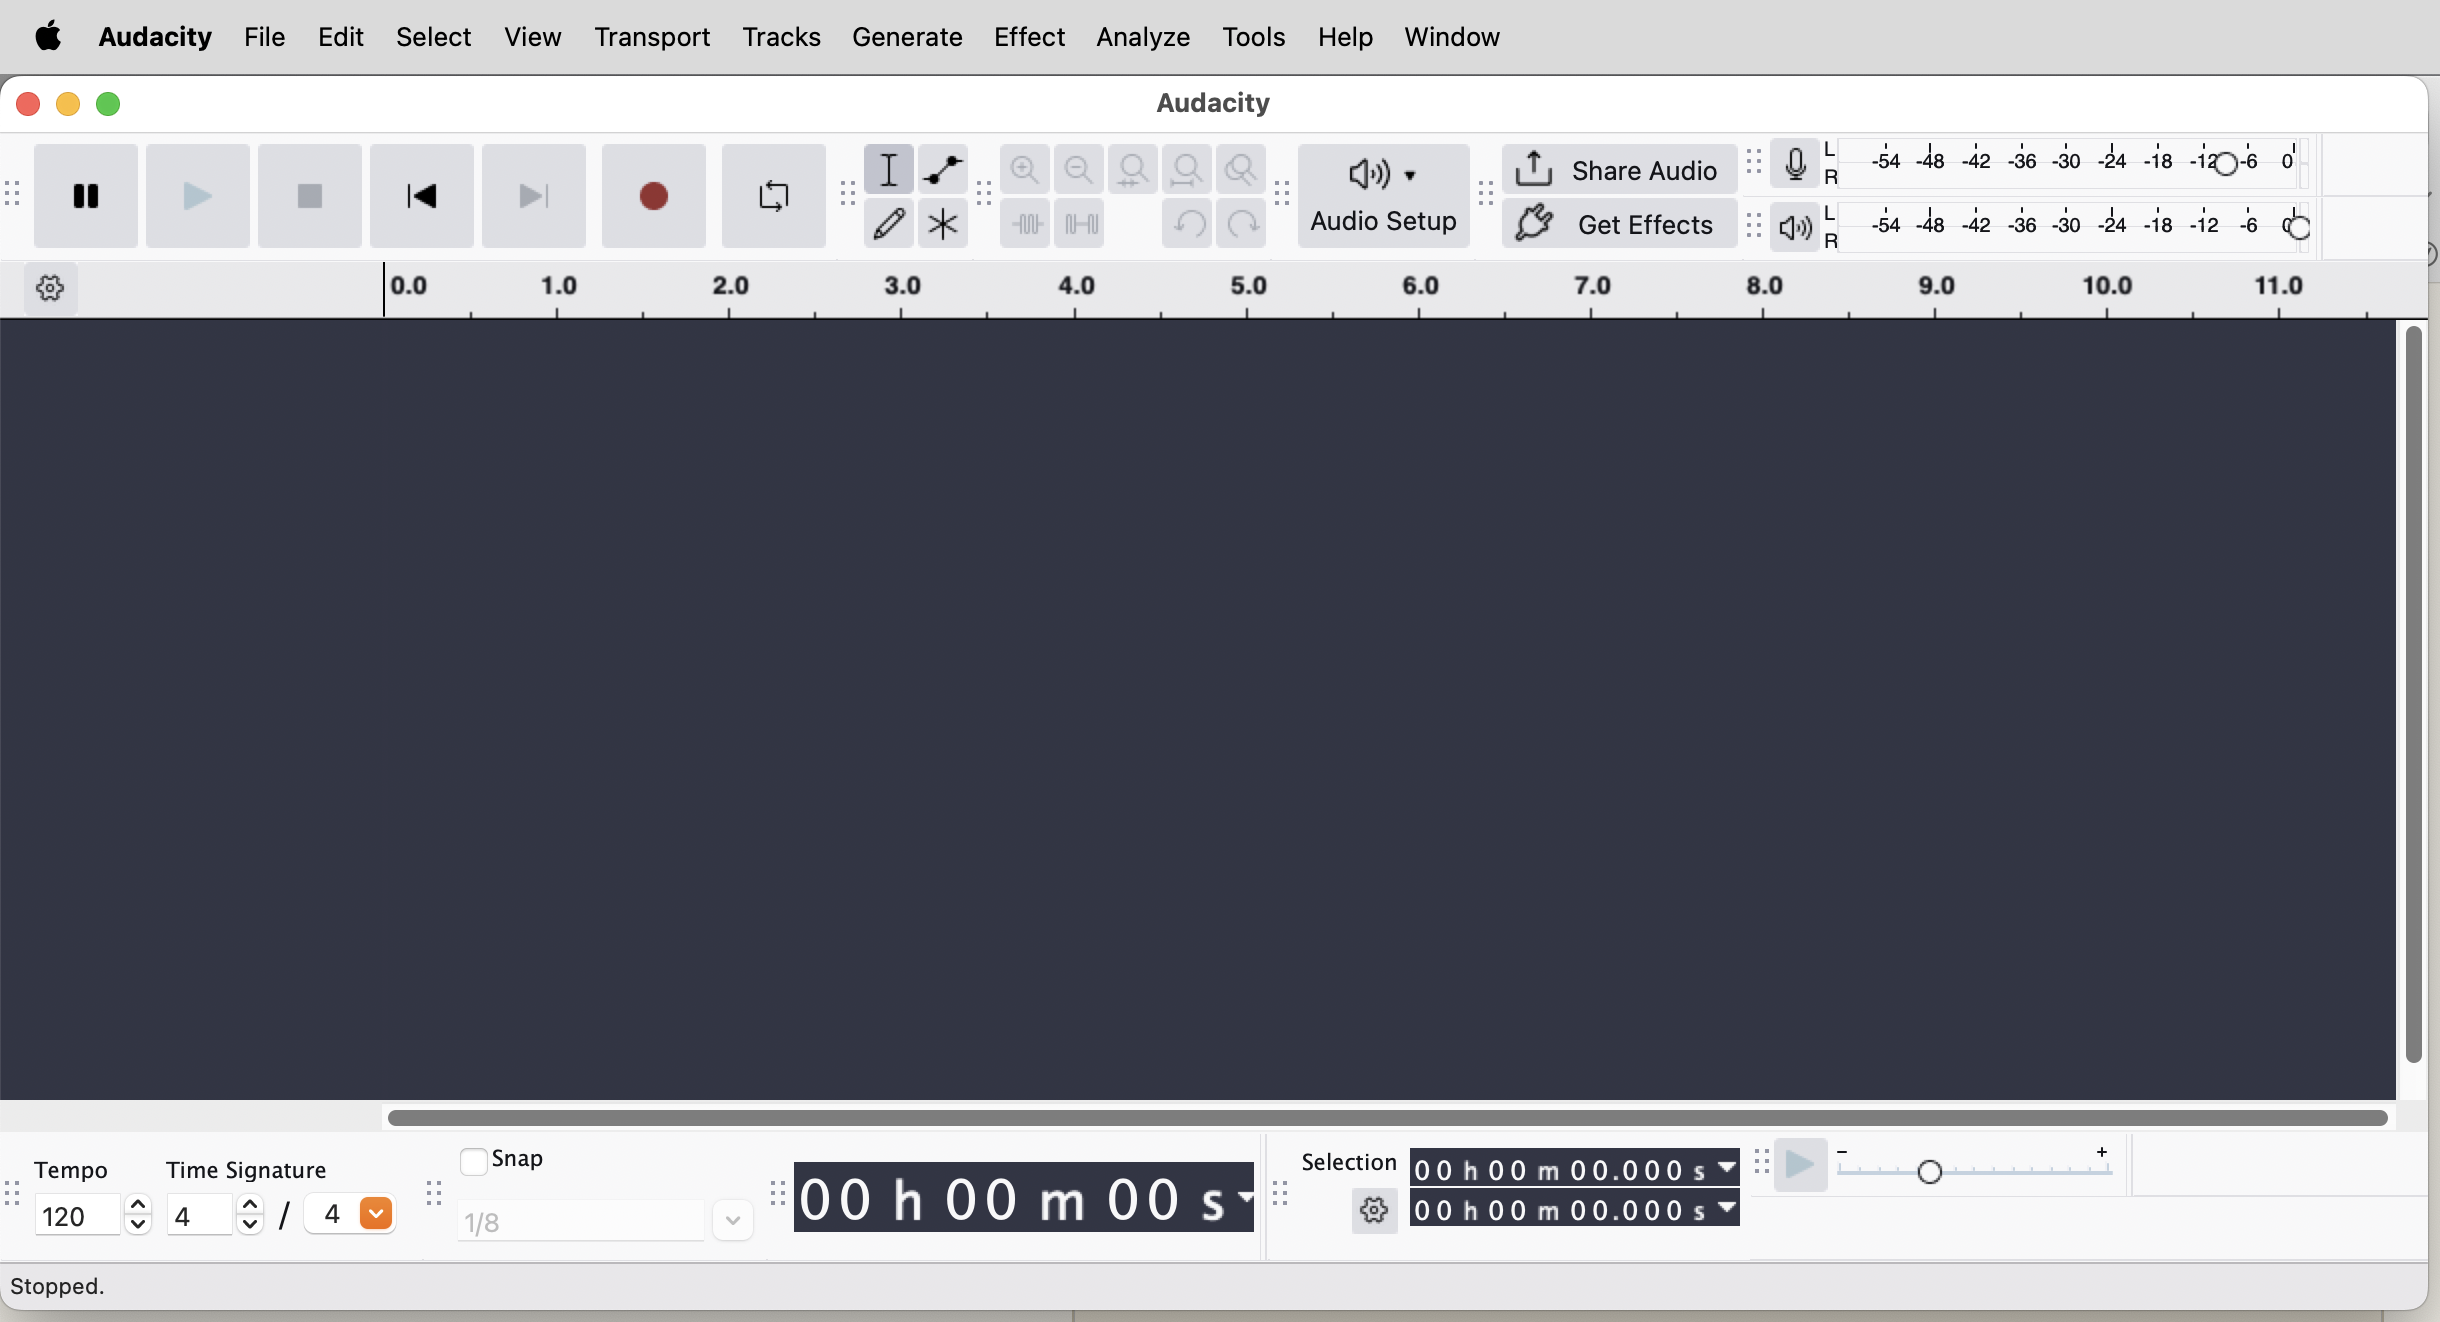
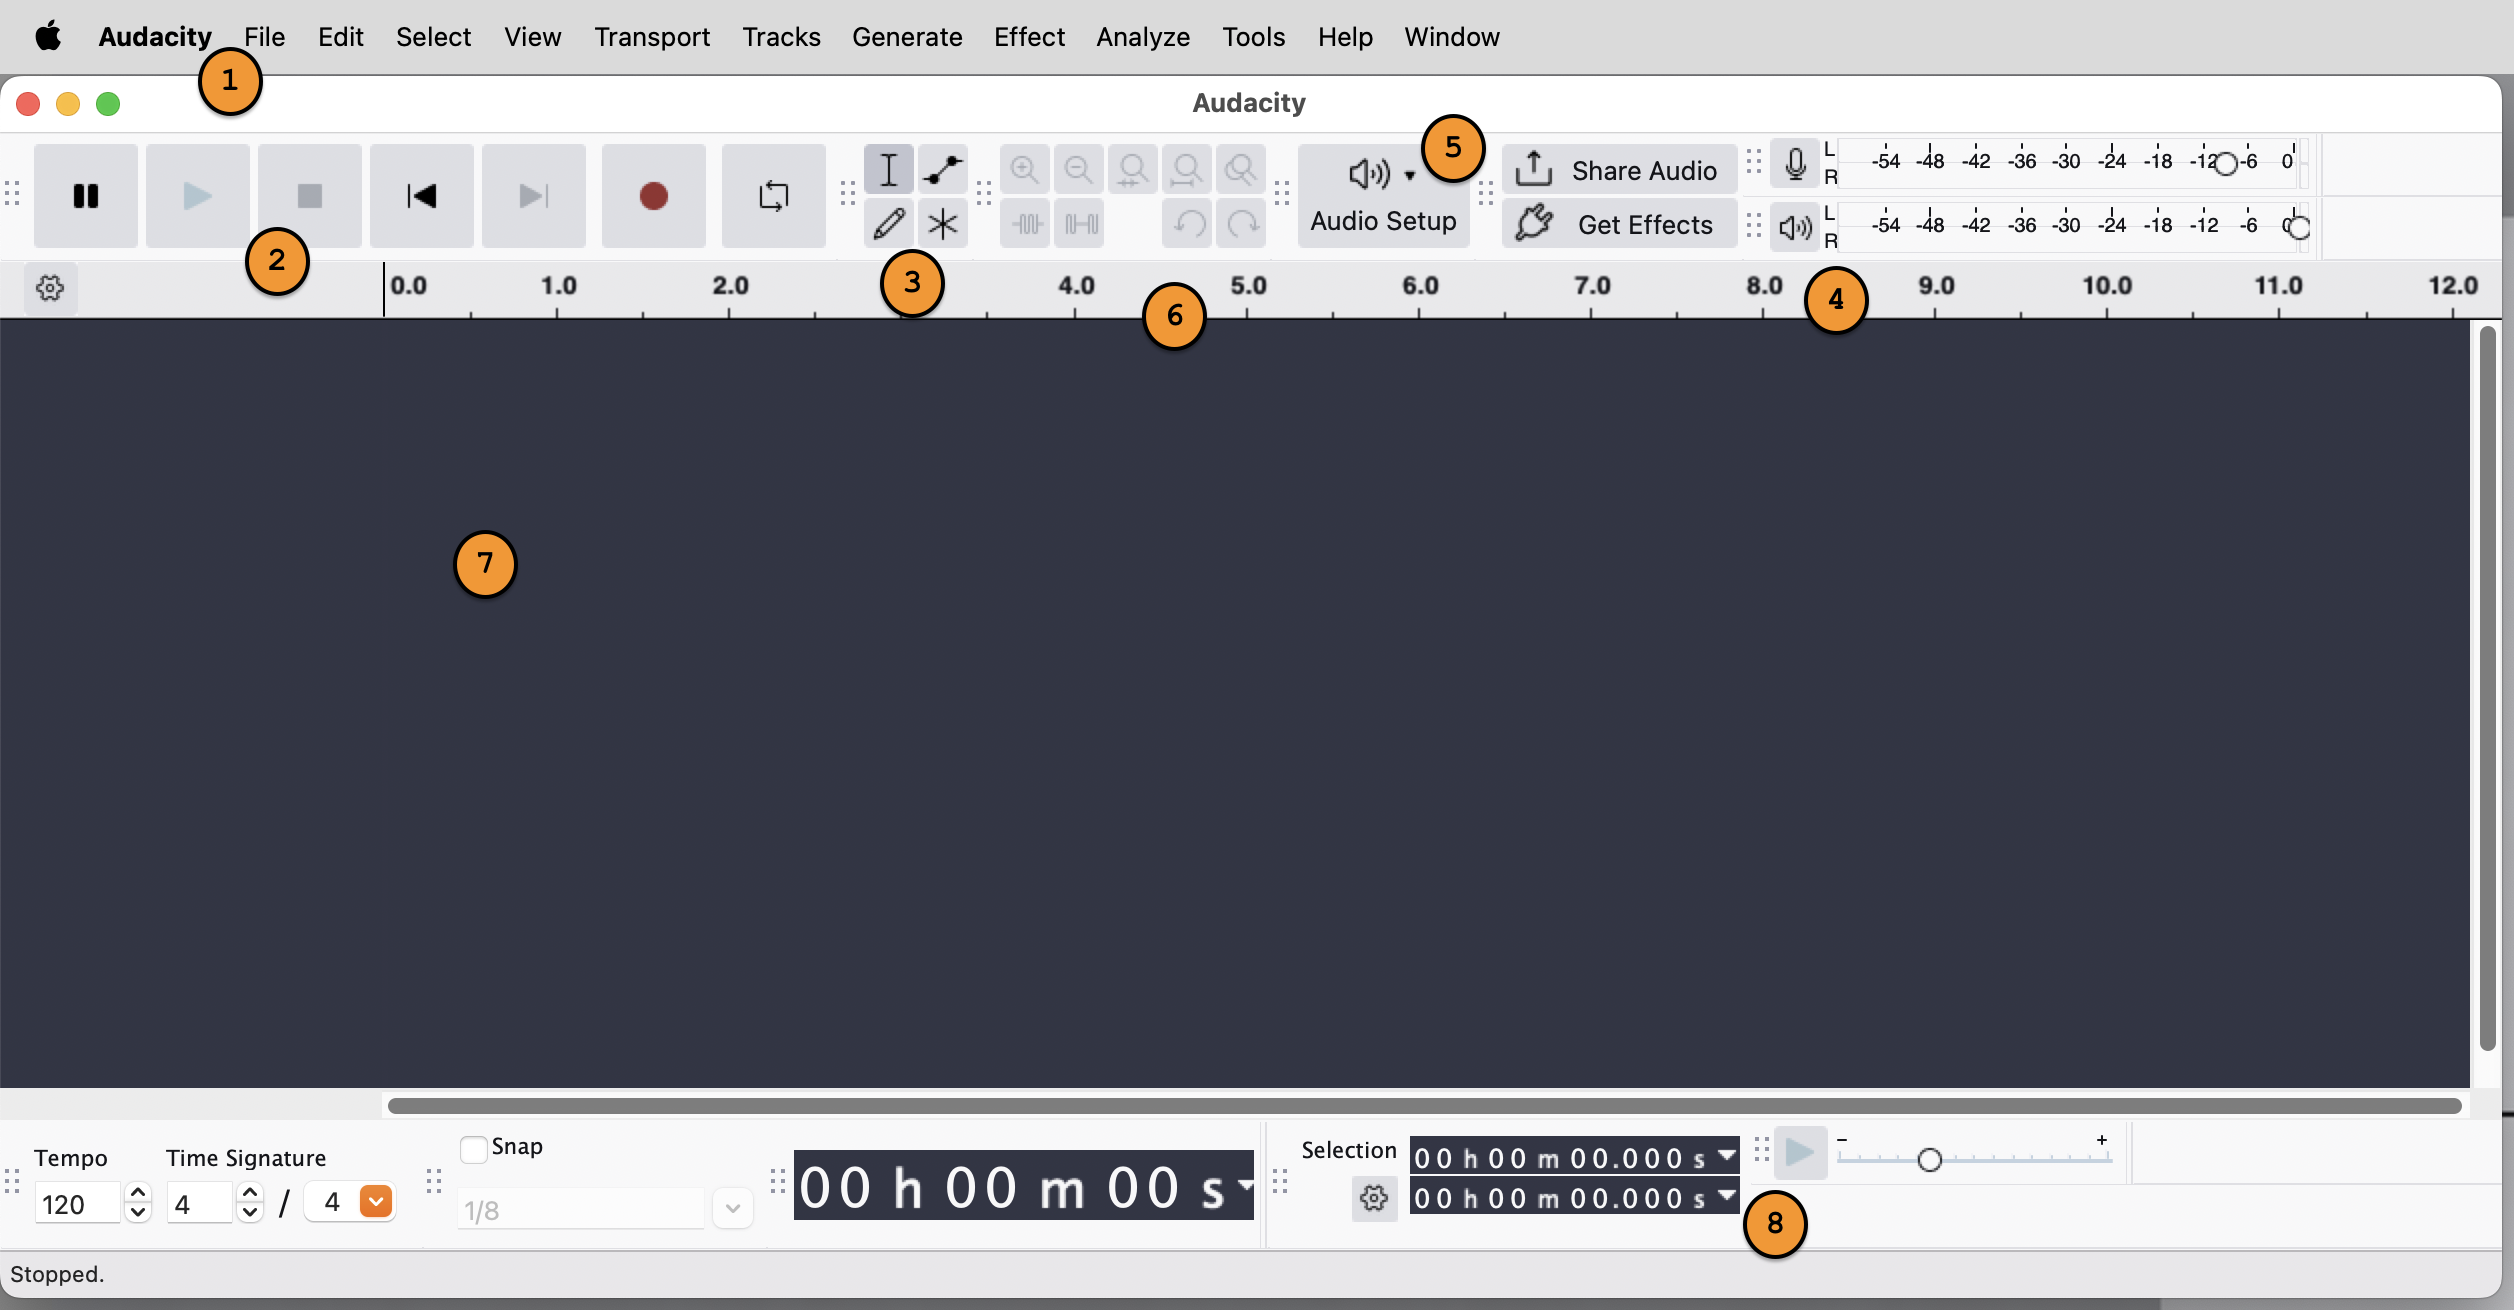
Audacity orientation: switch to annotated screenshot, remove SVG overlay
Inés produced an annotated version of the screenshot directly (orange
numbered markers placed on the regions they identify, no leader lines).
This replaces the SVG-overlay approach we'd been iterating on:

- assets/images/module-02-week-02/audacity-interface-empty.png:
  new file, 2514x1310, with 1-8 markers baked into the PNG.
- 03-handout-audacity-orientation.html:
  - Removed the SVG overlay (markers + leader lines + defs/marker
    arrowhead) and the .annotated wrapper div.
  - Removed the .annotated and svg.overlay CSS rules.
  - Restored the simpler <figure class='screenshot'><img>...
  - Updated img alt text to describe the on-image markers.
  - Annotation key kept as before (1-8, matching the markers).
- module-02-audio-editing-mixing/README.md:
  - Updated the screenshots table row to describe the baked-in
    markers.
  - Replaced the long 'Annotation overlay' subsection with a short
    note explaining that annotations are in the PNG itself and what
    to do if the screenshot is ever re-captured.
  - Kept the note about Audacity 3.6 no longer displaying the project
    sample rate (still useful context for marker 5's key text).

Net: -94 lines, cleaner end state. The annotation positions are now
locked to the PNG, which is a fine trade-off; if the screenshot ever
changes the annotations need to be redrawn rather than nudged in code,
but that's a rare event.

diff --git a/module-02-audio-editing-mixing/lessons/03-handout-audacity-orientation.html b/module-02-audio-editing-mixing/lessons/03-handout-audacity-orientation.html
@@ -11,14 +11,6 @@
     figure.screenshot {
       margin: 1.5rem 0 2rem;
     }
-    /* For annotated screenshots: the image and the SVG overlay both live inside
-       this wrapper, which establishes the positioning context. The SVG is sized
-       and positioned to lie exactly on top of the image, with pointer-events
-       disabled so right-click / save-image still works on the underlying picture. */
-    figure.screenshot .annotated {
-      position: relative;
-      line-height: 0; /* removes the descender gap below the inline img */
-    }
     figure.screenshot img {
       display: block;
       width: 100%;
@@ -26,14 +18,6 @@
       border: 1px solid var(--rule);
       border-radius: 3px;
       background: var(--bg-alt);
-    }
-    figure.screenshot .annotated svg.overlay {
-      position: absolute;
-      top: 0;
-      left: 0;
-      width: 100%;
-      height: 100%;
-      pointer-events: none;
     }
     figure.screenshot figcaption {
       font-family: var(--mono);
@@ -45,7 +29,7 @@
       text-align: left;
     }
     /* Annotation key sits below the screenshot, referencing the numbered
-       markers drawn over the image. */
+       markers drawn on the image. */
     figure.screenshot .annotation-key {
       font-family: var(--mono);
       font-size: 0.85rem;
@@ -142,72 +126,7 @@
 <p>Before you import anything, take a minute to learn the names of the things on screen. You don't need to memorize all of these, just be able to find them when the instruction says "click the play button" or "use the selection tool."</p>
 
 <figure class="screenshot">
-  <div class="annotated">
-    <img src="../../assets/images/module-02-week-02/audacity-interface-empty.png" alt="The empty Audacity main window. Numbered markers point to the menu bar, transport toolbar, tools toolbar, recording and playback level meters, Audio Setup dropdown, timeline ruler, empty track area, and selection toolbar." loading="lazy">
-    <svg class="overlay" viewBox="0 0 2440 1322" preserveAspectRatio="none" aria-hidden="true" xmlns="http://www.w3.org/2000/svg">
-      <!-- Marker style: filled rust circle (radius 32 in source coords) with
-           white DM Mono number centered inside. Each marker sits in the empty
-           track area or the title-bar margin, with a short leader line ending
-           in an arrowhead pointing to the region it identifies. Keeping the
-           leaders short and (mostly) vertical avoids covering UI elements
-           and avoids the diagonal-crossing clutter of a callout-margin layout. -->
-      <defs>
-        <marker id="leader-arrow" viewBox="0 0 12 12" refX="9" refY="6"
-                markerWidth="12" markerHeight="12" orient="auto">
-          <path d="M 0 0 L 12 6 L 0 12 Z" fill="var(--accent)"/>
-        </marker>
-      </defs>
-      <g stroke="var(--accent)" stroke-width="4" fill="none">
-        <!-- 1: Menu bar — leader points up to just below the menu strip, in the title bar area -->
-        <line x1="120" y1="346" x2="120" y2="55" marker-end="url(#leader-arrow)"/>
-        <!-- 2: Transport toolbar — leader tip lands above the toolbar buttons, in the title bar area -->
-        <line x1="330" y1="346" x2="330" y2="95" marker-end="url(#leader-arrow)"/>
-        <!-- 3: Tools toolbar — leader tip lands above the tools cluster, slightly left -->
-        <line x1="555" y1="346" x2="520" y2="95" marker-end="url(#leader-arrow)"/>
-        <!-- 5: Audio Setup — leader tip lands above the dropdown button, in the title bar area -->
-        <line x1="1380" y1="346" x2="1380" y2="95" marker-end="url(#leader-arrow)"/>
-        <!-- 4: Level meters — leader tip lands above the meters, in the title bar area -->
-        <line x1="1820" y1="346" x2="1820" y2="95" marker-end="url(#leader-arrow)"/>
-        <!-- 6: Timeline ruler — leader points up to the ruler itself -->
-        <line x1="1020" y1="346" x2="1020" y2="300" marker-end="url(#leader-arrow)"/>
-        <!-- 8: Selection toolbar — leader points DOWN to the selection block -->
-        <line x1="1490" y1="1054" x2="1490" y2="1170" marker-end="url(#leader-arrow)"/>
-      </g>
-      <g font-family="DM Mono, monospace" font-size="42" font-weight="500" text-anchor="middle">
-        <!-- 1: Menu bar -->
-        <circle cx="120" cy="380" r="32" fill="var(--accent)" stroke="var(--bg)" stroke-width="3"/>
-        <text x="120" y="396" fill="var(--bg)">1</text>
-
-        <!-- 2: Transport toolbar -->
-        <circle cx="330" cy="380" r="32" fill="var(--accent)" stroke="var(--bg)" stroke-width="3"/>
-        <text x="330" y="396" fill="var(--bg)">2</text>
-
-        <!-- 3: Tools toolbar (selection / envelope / draw / multi-tool cluster) -->
-        <circle cx="555" cy="380" r="32" fill="var(--accent)" stroke="var(--bg)" stroke-width="3"/>
-        <text x="555" y="396" fill="var(--bg)">3</text>
-
-        <!-- 4: Level meters (recording on top, playback below) -->
-        <circle cx="1820" cy="380" r="32" fill="var(--accent)" stroke="var(--bg)" stroke-width="3"/>
-        <text x="1820" y="396" fill="var(--bg)">4</text>
-
-        <!-- 5: Audio Setup dropdown -->
-        <circle cx="1380" cy="380" r="32" fill="var(--accent)" stroke="var(--bg)" stroke-width="3"/>
-        <text x="1380" y="396" fill="var(--bg)">5</text>
-
-        <!-- 6: Timeline ruler -->
-        <circle cx="1020" cy="380" r="32" fill="var(--accent)" stroke="var(--bg)" stroke-width="3"/>
-        <text x="1020" y="396" fill="var(--bg)">6</text>
-
-        <!-- 7: Empty track area (no leader; the area itself is the location) -->
-        <circle cx="1220" cy="750" r="32" fill="var(--accent)" stroke="var(--bg)" stroke-width="3"/>
-        <text x="1220" y="766" fill="var(--bg)">7</text>
-
-        <!-- 8: Selection toolbar (bottom) -->
-        <circle cx="1490" cy="1020" r="32" fill="var(--accent)" stroke="var(--bg)" stroke-width="3"/>
-        <text x="1490" y="1036" fill="var(--bg)">8</text>
-      </g>
-    </svg>
-  </div>
+  <img src="../../assets/images/module-02-week-02/audacity-interface-empty.png" alt="The empty Audacity main window with eight numbered orange markers identifying the menu bar, transport toolbar, tools toolbar, level meters, Audio Setup dropdown, timeline ruler, empty track area, and selection toolbar." loading="lazy">
   <figcaption>Audacity main window · empty project</figcaption>
   <div class="annotation-key">
     <strong>1.</strong> Menu bar (File, Edit, Select, View, Transport, Tracks, Generate, Effect, Analyze, Tools, Help)<br>

diff --git a/module-02-audio-editing-mixing/README.md b/module-02-audio-editing-mixing/README.md
@@ -353,31 +353,18 @@ The seven screenshots in `assets/images/module-02-week-02/` are now captured (In
 | Filename | Content |
 |---|---|
 | `audacity-settings.png` | Preferences → Audio Settings: Quality section showing Project Sample Rate 44100 Hz, Default Sample Rate 44100 Hz, Default Sample Format 16-bit |
-| `audacity-interface-empty.png` | Empty Audacity main window. Numbered annotations are drawn as an SVG overlay in the handout, not on the image itself; see "Annotation overlay" below |
+| `audacity-interface-empty.png` | Empty Audacity main window with eight numbered orange markers placed directly on the regions identified in Step 3's annotation key (menu bar, transport, tools, level meters, Audio Setup, ruler, track area, selection toolbar) |
 | `audacity-imported.png` | Main window with `orientation-sample.wav` imported as a stereo track, showing the ringing-decay waveform across both channels |
 | `audacity-selection.png` | Same window with a region selected from roughly 7s to the end of the file (visible blue highlighted region in the waveform and timeline) |
 | `audacity-fade-out.png` | Same window after the cut + fade-out: file now ends around 7.5s, last ~2.5s shows the visible fade taper |
 | `audacity-export-prompt.png` | The "How would you like to export?" interstitial dialog with two options (Share to audio.com / On your computer) and the "Don't show again" checkbox |
 | `audacity-export.png` | Export Audio dialog: filename `thiebaut-orientation.wav`, format WAV (Microsoft), Stereo, 44100 Hz, Signed 16-bit PCM, Entire Project |
 
-### Annotation overlay for `audacity-interface-empty.png`
+### About the annotations on `audacity-interface-empty.png`
 
-The screenshot ships unannotated; the eight numbered markers in the handout's Step 3 are drawn as an inline SVG overlay positioned on top of the `<img>`, not painted into the PNG. Coordinates use the source pixel dimensions (2440 × 1322) via `viewBox`, so the overlay scales with the image at any rendered size.
+The eight numbered markers are baked into the PNG itself (orange filled circles with white numbers, placed directly on the regions they identify). The handout's annotation key below the figure provides the legend. If the screenshot is ever re-captured, the new version will need fresh annotations drawn on; the numbering should match the order in the handout's Step 3 key.
 
-This keeps the markers theme-aware (they use `var(--accent)` so they match the rust palette automatically) and easy to adjust: editing positions, adding or removing markers, or rewording the key is a one-line change in the HTML, not a re-export from an image editor.
-
-If the screenshot itself is ever re-captured at a different resolution or framing, update the SVG `viewBox` to the new pixel dimensions and re-check the marker coordinates against the new layout. The markers are placed at:
-
-- 1. Menu bar — leader up to "Audacity" application name
-- 2. Transport toolbar — leader up to the play/stop button cluster
-- 3. Tools toolbar — leader up to the selection I-beam tool
-- 4. Recording & playback level meters — leader up to the meters at right
-- 5. Audio Setup dropdown — leader up to the dropdown button
-- 6. Timeline ruler — leader up to the ruler
-- 7. Empty track area — no leader, marker sits in the middle of the area itself
-- 8. Selection toolbar — leader down to the Selection block at the bottom
-
-Note that the empty Audacity window does not display the project sample rate anywhere visible (the project rate setting now lives inside the Audio Setup dropdown, not in the main window's status bar). The annotation key reflects this; there is no separate "project rate" marker.
+Note that the empty Audacity window does not display the project sample rate anywhere visible. In Audacity 3.6 the project rate lives inside the Audio Setup dropdown, not in the main window's status bar. The annotation key reflects this; marker 5 (Audio Setup) describes the dropdown as the home for host, device, channel, and project-rate settings.
 
 ### After class
 